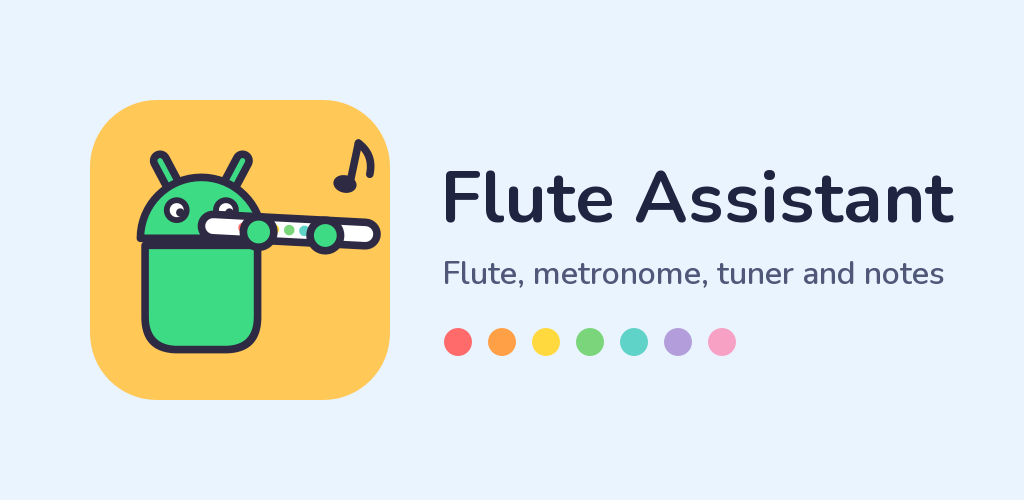
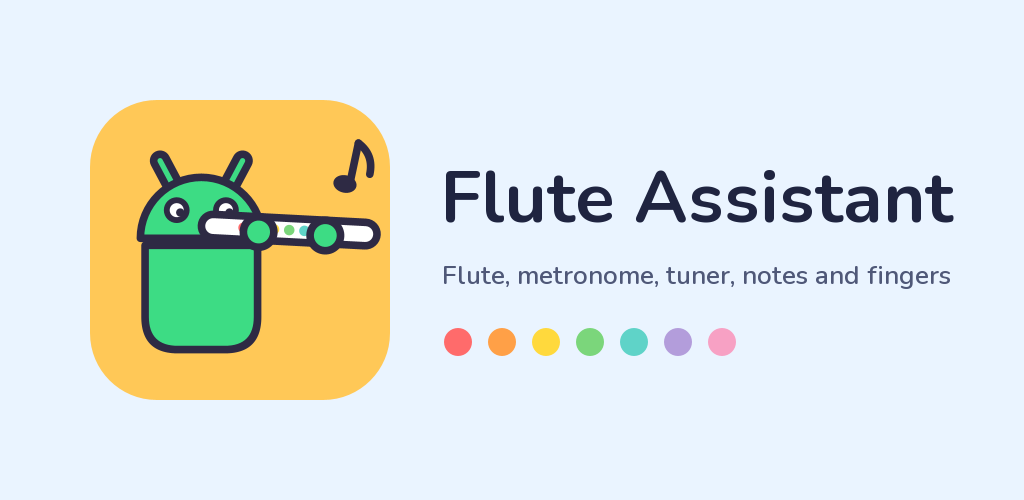
docs: update feature graphic subtitle to include fingers

Changed region(s): [[0.4375, 0.51, 0.9375, 0.57]]

diff --git a/site/src/i18n/en.ts b/site/src/i18n/en.ts
@@ -11,7 +11,7 @@ export const en: Strings = {
     description:
       'A free Android app for children learning the flute: a digital flute, a metronome with animals, a flute tuner, a note reading game and a flute fingering chart. No ads, works offline.',
     ogImageAlt:
-      'Flute Assistant: the Android robot playing the flute, with the words Flute, metronome, tuner and notes.',
+      'Flute Assistant: the Android robot playing the flute, with the words Flute, metronome, tuner, notes and fingers.',
   },
   skipLink: 'Skip to content',
   languageMenu: 'Language',

diff --git a/tools/IconGen.java b/tools/IconGen.java
@@ -156,7 +156,7 @@ public class IconGen {
         g.setFont(fit(g, "Flute Assistant", nunito("nunito_bold"), 86, maxWidth));
         g.drawString("Flute Assistant", textX, 222);
         g.setColor(MUTED);
-        String subtitle = "Flute, metronome, tuner and notes"; // the tab bar's order
+        String subtitle = "Flute, metronome, tuner, notes and fingers"; // the tab bar's order
         g.setFont(fit(g, subtitle, nunito("nunito_semibold"), 38, maxWidth));
         g.drawString(subtitle, textX + 2, 284);
         // The flute's seven note colours, as on the icon.

diff --git a/docs/release/play-console.md b/docs/release/play-console.md
@@ -17,7 +17,7 @@ Settings and the child's tunes are stored locally on the device.
 | Short description | `play-listing/text/<lang>/short-description.txt` |
 | Full description | `play-listing/text/<lang>/full-description.txt` |
 | App icon | `play-listing/icon-512.png` (512x512) |
-| Feature graphic | `play-listing/feature-graphic-1024x500.png` (subtitle "Flute, metronome, tuner and notes", text in `tools/IconGen.java`) |
+| Feature graphic | `play-listing/feature-graphic-1024x500.png` (subtitle "Flute, metronome, tuner, notes and fingers", text in `tools/IconGen.java`) |
 | Screenshots | `play-listing/screenshots/en/` and `hr/`: one per tab, 1080x1920 JPEG (9:16, the ratio Play asks for), made by `tools/play-screenshots.sh` on the emulator |
 | Tablet screenshots | `play-listing/screenshots-tablet/7-inch/<lang>/` (1296x2304) for the 7-inch tablet slot and `10-inch/<lang>/` (2880x1620) for the 10-inch slot: one per tab, made by `tools/play-screenshots.sh tablet`, uploaded by hand |
 | Category | App, **Education** (Store settings; this table said Music & Audio until 2026-11-11, the console never did). Tags: Education, Music & audio, Music instrument, Primary education ("Audio recorder" removed on 2026-11-11: a release build records nothing) |
